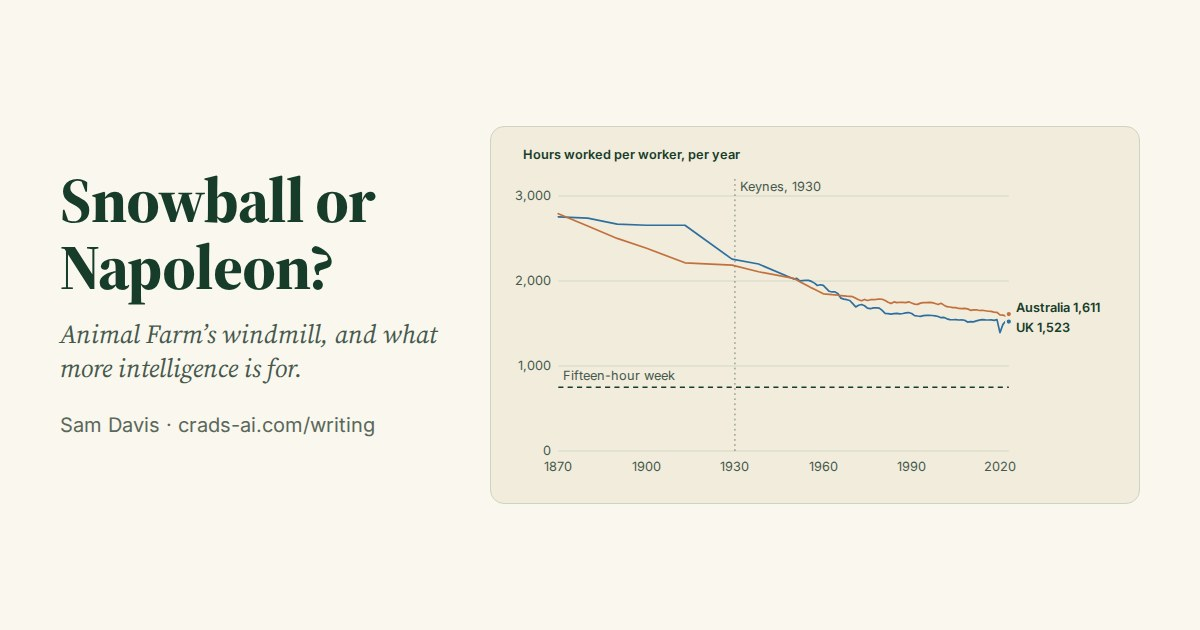
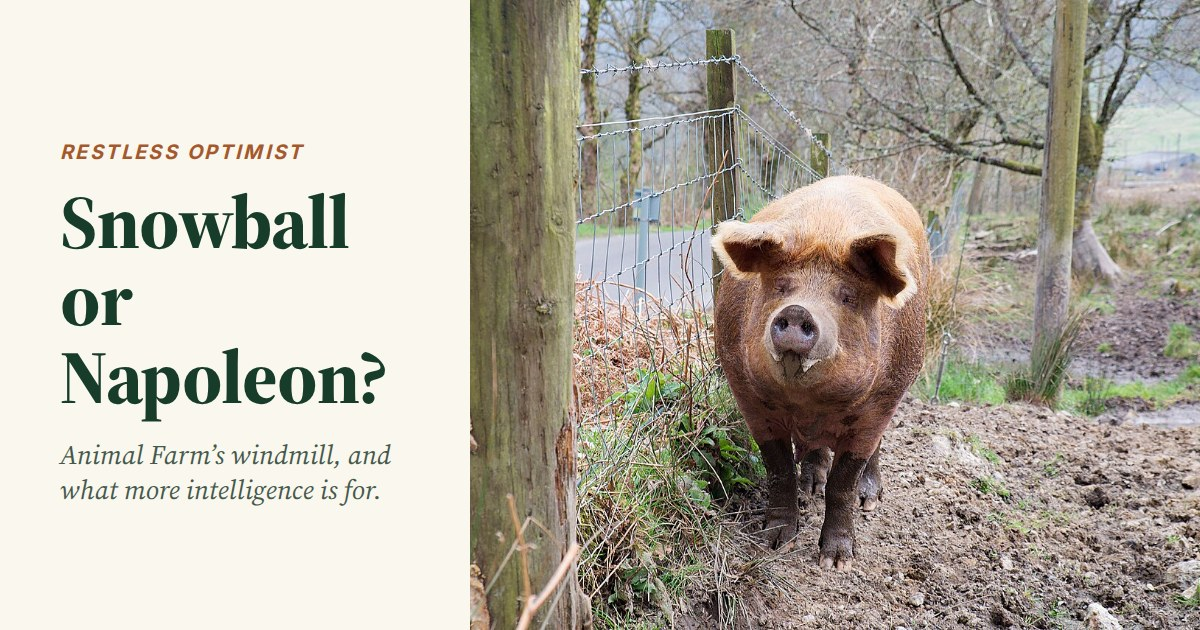
writing: Stirling pig as the Snowball or Napoleon? thumbnail and hero
Sam picked option A for a more eye-catching, light-hearted thumbnail. The
Tamworth pig near Stirling (Benoit Brummer, Wikimedia Commons, CC BY 4.0)
replaces the Holmeswood windmill at the top of the essay and on the Writing
card; the share card (og.jpg) is now the title beside the pig. Feed rebuilt.

diff --git a/writing/snowball-or-napoleon/index.html b/writing/snowball-or-napoleon/index.html
@@ -19,7 +19,7 @@
 <meta property="og:image" content="https://crads-ai.com/writing/snowball-or-napoleon/og.jpg">
 <meta property="og:image:width" content="1200">
 <meta property="og:image:height" content="630">
-<meta property="og:image:alt" content="The title Snowball or Napoleon? beside a line chart of hours worked per worker since 1870, still far above a fifteen-hour week">
+<meta property="og:image:alt" content="The title Snowball or Napoleon? beside a ginger pig staring at the camera with grass in its mouth">
 <meta name="author" content="Sam Davis">
 <meta name="twitter:card" content="summary_large_image">
 <meta name="twitter:title" content="Snowball or Napoleon?">
@@ -79,7 +79,7 @@
   </header>
 
   <article class="essay-body">
-<figure class="essay-figure wide photo"><img src="/writing/snowball-or-napoleon/windmill-holmeswood.jpg" alt="A brick tower windmill without its sails beside a line of trees, across a wet ploughed field with rows of young crops" width="960" height="638" loading="lazy"><figcaption>The windmill at Windmill Farm, Holmeswood, November 2015. <span class="credit">Photo: Mike Pennington, via <a href="https://commons.wikimedia.org/wiki/File:The_eponymous_windmill_at_Windmill_Farm,_Holmeswood_-_geograph.org.uk_-_4743487.jpg" target="_blank" rel="noopener">Geograph</a>, <a href="https://creativecommons.org/licenses/by-sa/2.0/" target="_blank" rel="noopener">CC BY-SA 2.0</a></span></figcaption></figure>
+<figure class="essay-figure wide photo"><img src="/writing/snowball-or-napoleon/pig-stirling.jpg" alt="A ginger Tamworth pig standing in a muddy field by a wire fence, staring at the camera with grass in its mouth" width="1280" height="855" loading="lazy"><figcaption>A Tamworth pig near Stirling, Loch Lomond and The Trossachs National Park, April 2019. <span class="credit">Photo: Benoit Brummer (Trougnouf), via <a href="https://commons.wikimedia.org/wiki/File:Farm_pig_in_Stirling_(DSCF0095).jpg" target="_blank" rel="noopener">Wikimedia Commons</a>, <a href="https://creativecommons.org/licenses/by/4.0/" target="_blank" rel="noopener">CC BY 4.0</a></span></figcaption></figure>
 <h2 id="two-slogans">Two slogans</h2>
 <p>Halfway through <em>Animal Farm</em>, the animals hold a vote. Snowball, one of the two pigs running the farm, has drawn up plans for a windmill. It will make electricity, and he says it will save so much labour that “the animals would only need to work three days a week.” He talks about “fantastic machines which would do their work for them while they grazed at their ease in the fields or improved their minds with reading and conversation.”</p>
 <p>Napoleon, the other pig, says the farm needs food first. The animals split into two camps, each with a slogan: “Vote for Snowball and the three-day week” and “Vote for Napoleon and the full manger.”</p>

diff --git a/writing/index.html b/writing/index.html
@@ -69,7 +69,7 @@
   <h1>Essays</h1>
   <p class="feed-link"><a href="/writing/feed.xml">Follow by RSS</a> · Built from my own ideas and stories, with Claude as a drafting partner.</p>
   <a class="essay-card" href="/writing/snowball-or-napoleon">
-    <img src="/writing/snowball-or-napoleon/windmill-holmeswood.jpg" alt="" loading="lazy" width="960" height="638">
+    <img src="/writing/snowball-or-napoleon/pig-stirling.jpg" alt="" loading="lazy" width="1280" height="855">
     <div>
       <h2>Snowball or Napoleon?</h2>
       <p>Animal Farm’s windmill, and what more intelligence is for.</p>

diff --git a/scripts/build-essay-snowball.py b/scripts/build-essay-snowball.py
@@ -113,10 +113,10 @@ FIGURES = {"[FIGURE: hours]": hours_figure}
 # Fetched from Wikimedia Commons, 24 Nov 2026. Licence checked on each file page.
 BY_SA = '<a href="https://creativecommons.org/licenses/by-sa/2.0/" target="_blank" rel="noopener">CC BY-SA 2.0</a>'
 PHOTOS = {
-    "windmill-holmeswood.jpg": dict(w=960, h=638, cls="wide",
-        alt="A brick tower windmill without its sails beside a line of trees, across a wet ploughed field with rows of young crops",
-        caption="The windmill at Windmill Farm, Holmeswood, November 2015.",
-        credit=f'Photo: Mike Pennington, via <a href="https://commons.wikimedia.org/wiki/File:The_eponymous_windmill_at_Windmill_Farm,_Holmeswood_-_geograph.org.uk_-_4743487.jpg" target="_blank" rel="noopener">Geograph</a>, {BY_SA}'),
+    "pig-stirling.jpg": dict(w=1280, h=855, cls="wide",
+        alt="A ginger Tamworth pig standing in a muddy field by a wire fence, staring at the camera with grass in its mouth",
+        caption="A Tamworth pig near Stirling, Loch Lomond and The Trossachs National Park, April 2019.",
+        credit='Photo: Benoit Brummer (Trougnouf), via <a href="https://commons.wikimedia.org/wiki/File:Farm_pig_in_Stirling_(DSCF0095).jpg" target="_blank" rel="noopener">Wikimedia Commons</a>, <a href="https://creativecommons.org/licenses/by/4.0/" target="_blank" rel="noopener">CC BY 4.0</a>'),
     "orwell-bbc-1940.jpg": dict(w=768, h=1069, cls="portrait",
         alt="George Orwell in a tweed jacket, half smiling, seated at a BBC microphone",
         caption="George Orwell at the BBC, 1940.",
@@ -212,7 +212,7 @@ PAGE = f"""<!DOCTYPE html>
 <meta property="og:image" content="{OG_IMG}">
 <meta property="og:image:width" content="1200">
 <meta property="og:image:height" content="630">
-<meta property="og:image:alt" content="The title Snowball or Napoleon? beside a line chart of hours worked per worker since 1870, still far above a fifteen-hour week">
+<meta property="og:image:alt" content="The title Snowball or Napoleon? beside a ginger pig staring at the camera with grass in its mouth">
 <meta name="author" content="Sam Davis">
 <meta name="twitter:card" content="summary_large_image">
 <meta name="twitter:title" content="{e_title}">
